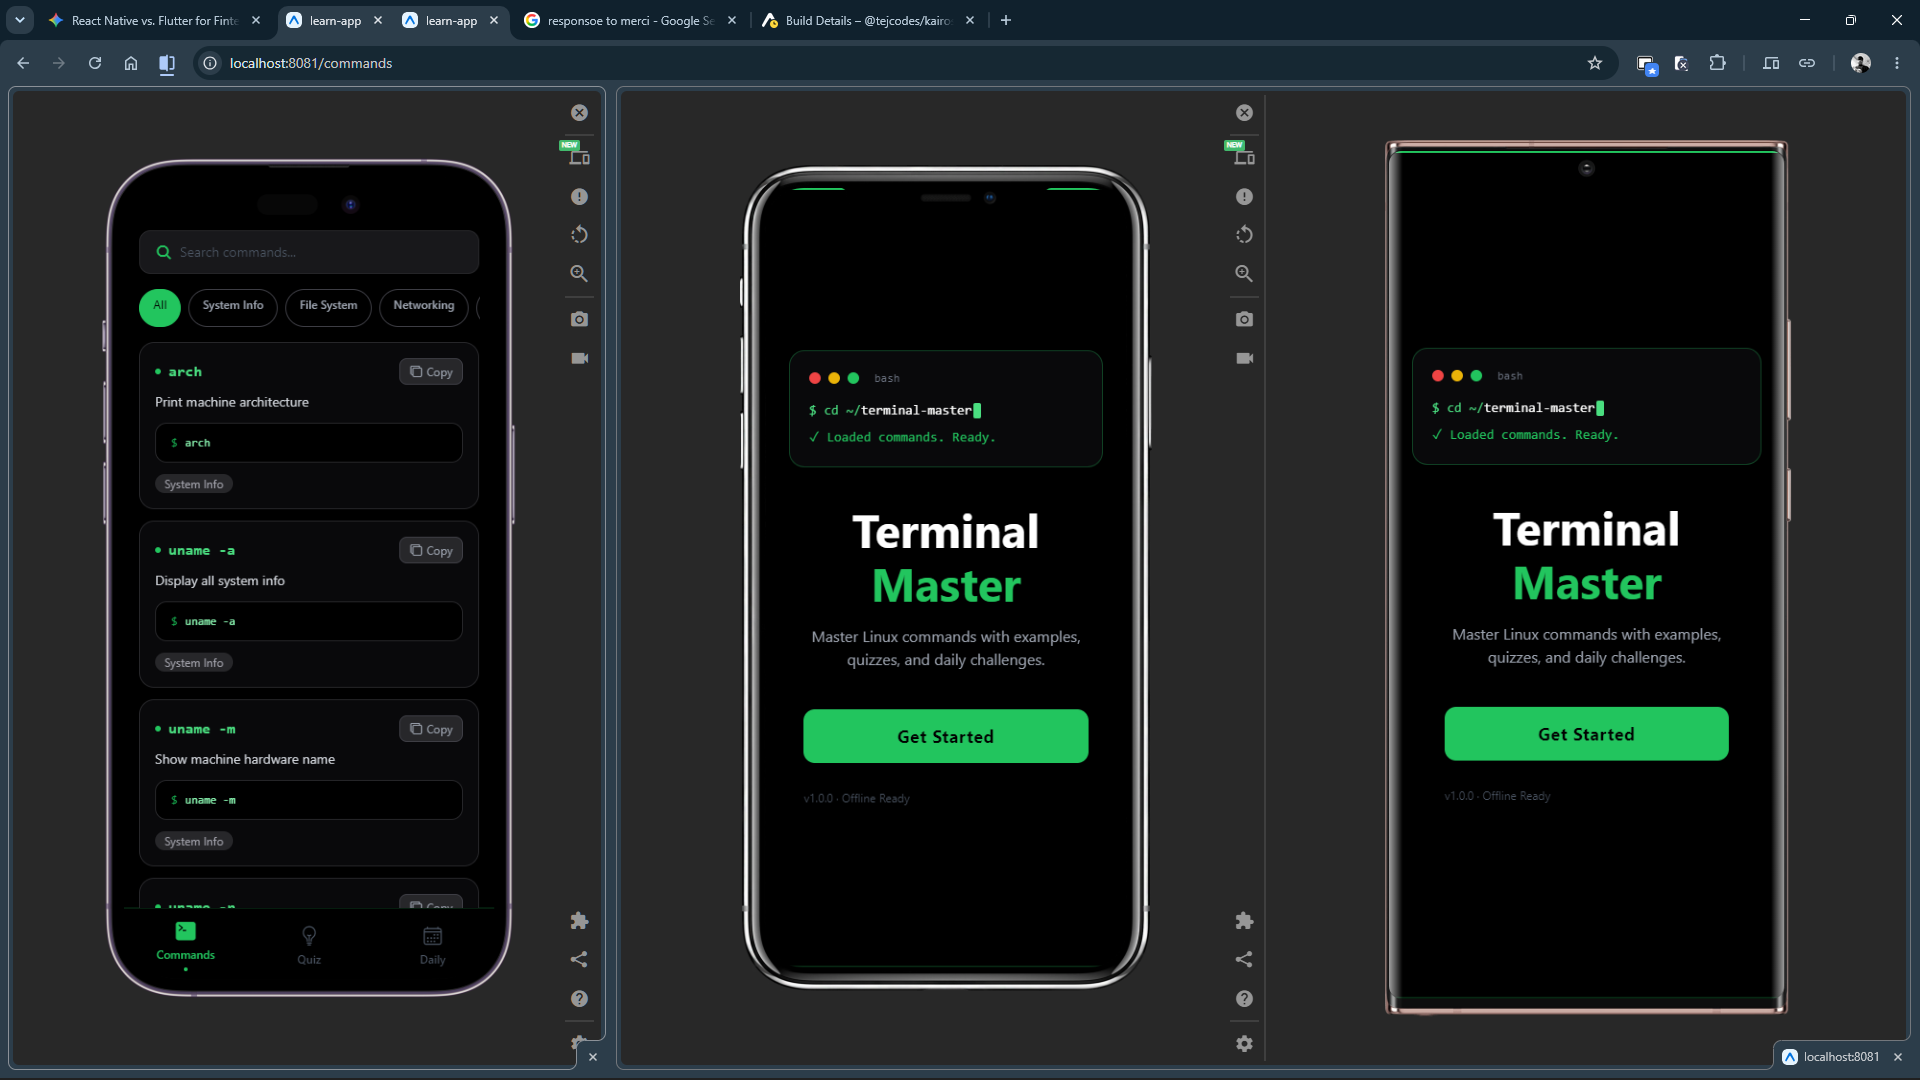
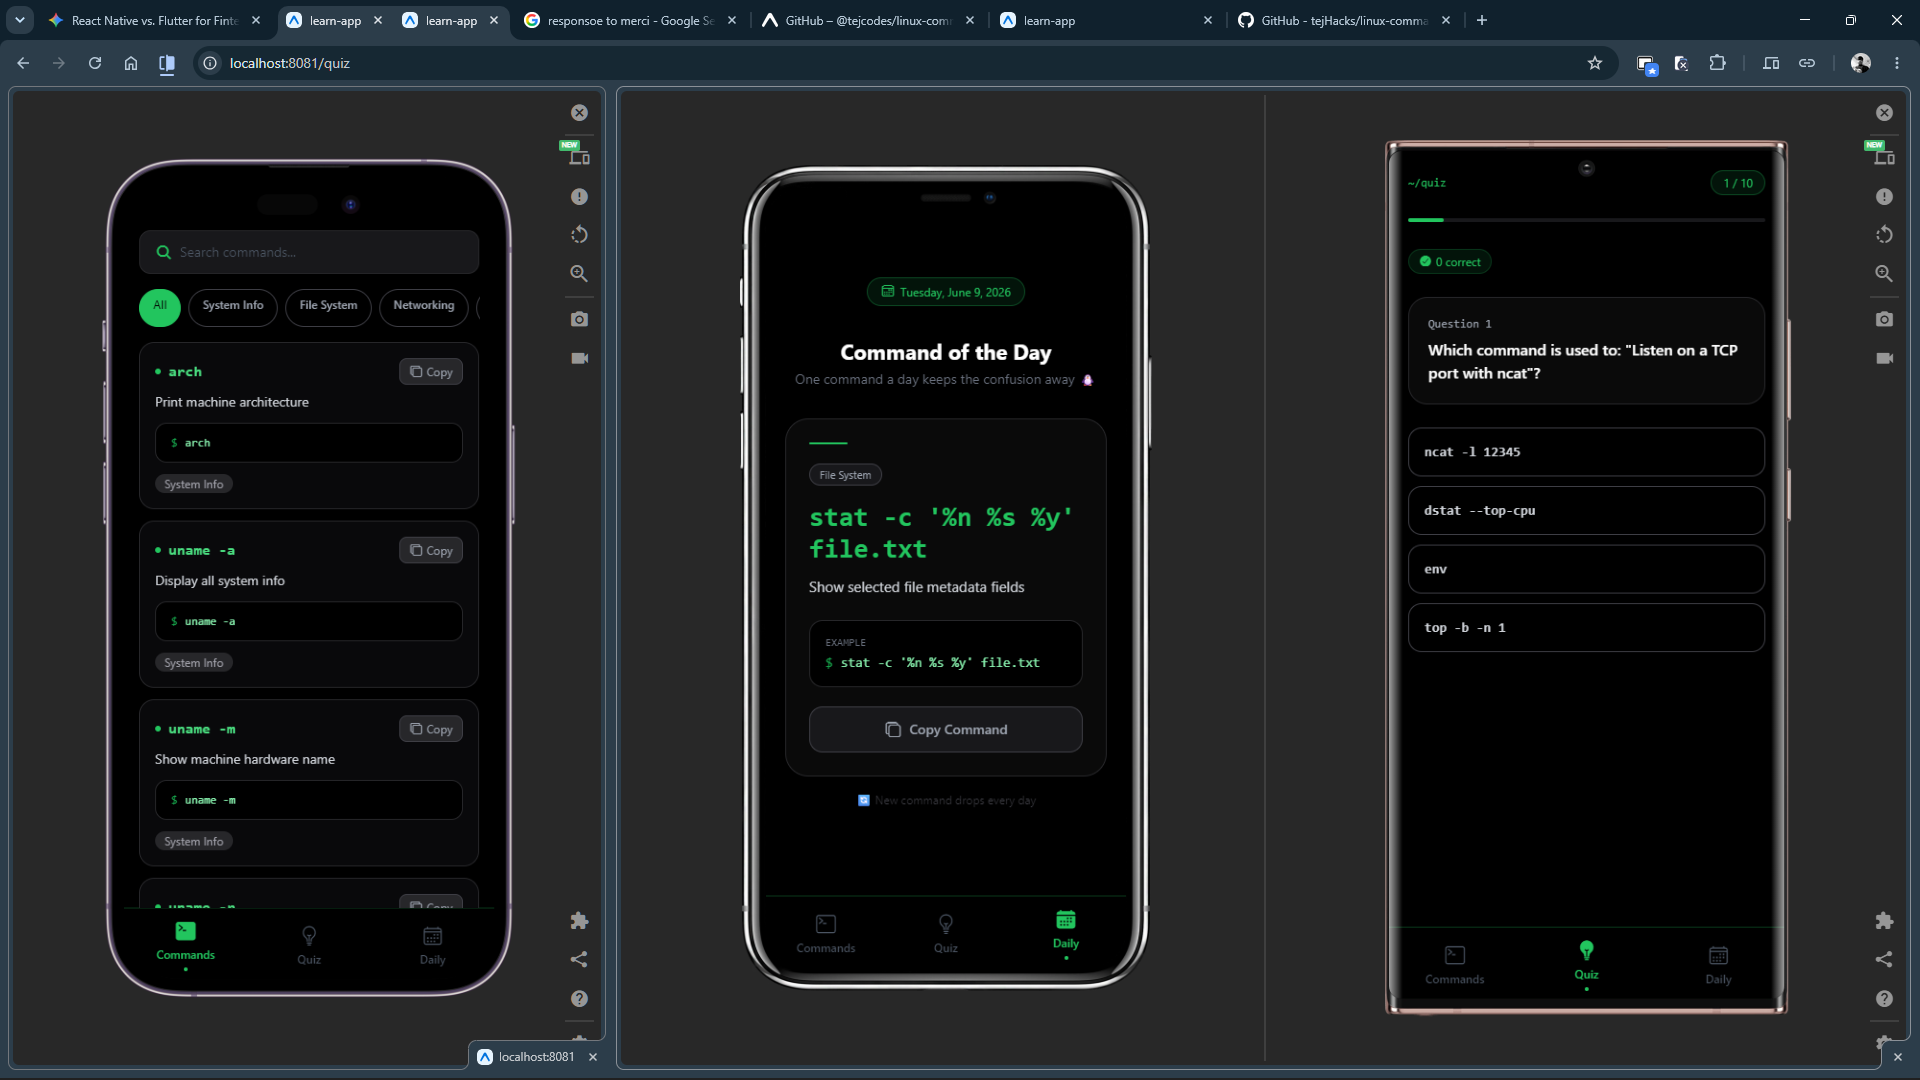
Snapped cooking asap

diff --git a/README.md b/README.md
@@ -1,8 +1,116 @@
-## Linux Commands Reference App
-React Native app with 400 Linux commands, built with Expo and Tailwind CSS. Optimized APK (20-25 MB) for Android 8.1 (Samsung S7).
+# Terminal Master - Linux Commands Reference App
 
-- **Tech Stack**: React Native, Expo, Tailwind CSS, Expo Router
-- **Features**: Searchable 400 commands, lazy loading, custom icon.
-- **Challenges**: Shrunk APK size with Gradle, fixed dark mode/FlatList issues.
-- **GitHub**: [https://github.com/tejHacks/linux-commands-mobile-app]
-- **Demo**: [Ill drop the link here soon]
+Master Linux commands with examples, quizzes, and daily challenges. A feature-rich React Native app built with Expo and Tailwind CSS.
+
+![Terminal Master App](./assets/images/download.png)
+
+## � Screenshots
+
+![App Screenshot 1](./22-pasted.png)
+![App Screenshot 2](./image.png)
+
+## �📱 Overview
+
+A mobile app featuring **400+ Linux commands** with search, category filters, quizzes, and a daily command challenge. Optimized for Android 8.1+ with a lean **20-25 MB APK**.
+
+## ✨ Features
+
+- **Searchable Commands**: 400+ Linux commands with descriptions and examples
+- **Category Filtering**: Browse by System Info, File System, Networking, Permissions, Process, Text, and more
+- **Daily Challenge**: One new command per day to keep learning
+- **Quiz Mode**: Test your knowledge with randomized multiple-choice questions
+- **Copy to Clipboard**: Quickly copy command examples
+- **Dark Terminal UI**: Custom black/green theme mimicking a real terminal
+- **Offline Ready**: Works without internet connection
+
+## 🛠 Tech Stack
+
+- **Framework**: React Native with Expo
+- **Styling**: Tailwind CSS + NativeWind
+- **Routing**: Expo Router
+- **State Management**: React Hooks
+- **Icons**: Ionicons from Expo Vector Icons
+- **Build**: EAS Build (Expo Application Services)
+
+## 🚀 Getting Started
+
+### Prerequisites
+- Node.js 18+
+- npm or yarn
+- Expo CLI
+
+### Installation
+
+```bash
+# Clone the repository
+git clone https://github.com/tejHacks/linux-commands-mobile-app.git
+cd linux-commands-mobile-app
+
+# Install dependencies
+npm install
+
+# Start the development server
+npx expo start
+```
+
+### Build APK
+
+```bash
+# Build for Android
+npx eas build -p android --profile production --wait
+
+# APK will be available at the EAS build dashboard
+```
+
+## 📋 Project Structure
+
+```
+app/
+  ├── index.tsx              # Home/Landing page
+  ├── commands.tsx           # Commands browser & search
+  ├── quiz.tsx              # Quiz mode
+  ├── daily.tsx             # Daily command challenge
+  ├── onboarding.tsx        # Onboarding flow
+  └── _layout.tsx           # Router layout
+
+components/
+  └── Navbar.tsx            # Bottom navigation
+
+data/
+  └── commands.ts           # 400+ Linux commands database
+
+assets/images/
+  └── download.png          # App icon
+```
+
+## 🎯 Key Challenges Solved
+
+- ✅ Reduced APK size to 20-25 MB using Gradle optimizations
+- ✅ Fixed FlatList performance with category filters
+- ✅ Implemented dark mode terminal UI with NativeWind
+- ✅ Randomized quiz question generation
+- ✅ Daily command rotation based on date
+
+## 📊 Commands Database
+
+Categories included:
+- System Info
+- File System
+- Networking
+- Permissions
+- Process Management
+- Text Processing
+- Package Management
+- Archives
+- Disk Management
+- Environment Variables
+
+## 🔗 Links
+
+- **GitHub**: [https://github.com/tejHacks/linux-commands-mobile-app](https://github.com/tejHacks/linux-commands-mobile-app)
+- **Expo Project**: [Expo Learn App](https://expo.dev/@tejcodes/learn-app)
+- **Demo**: Coming soon
+
+## 📄 License
+
+MIT License - Feel free to use this project for personal or commercial purposes.